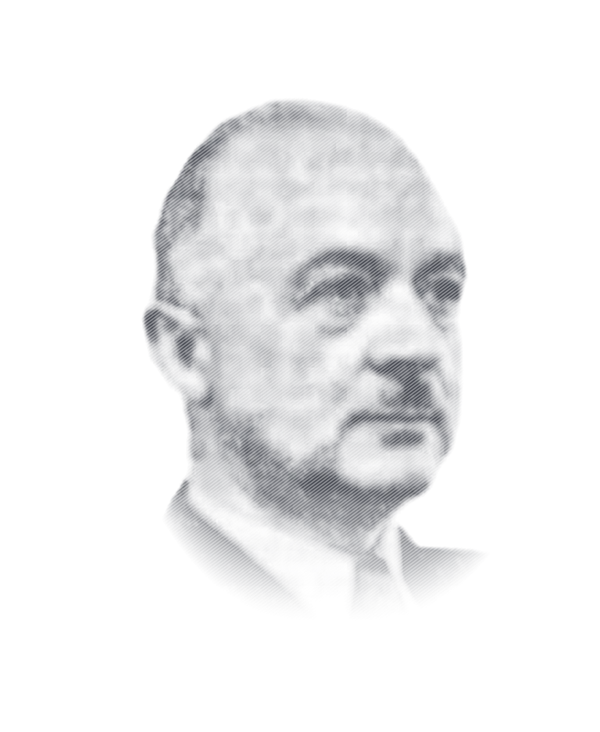
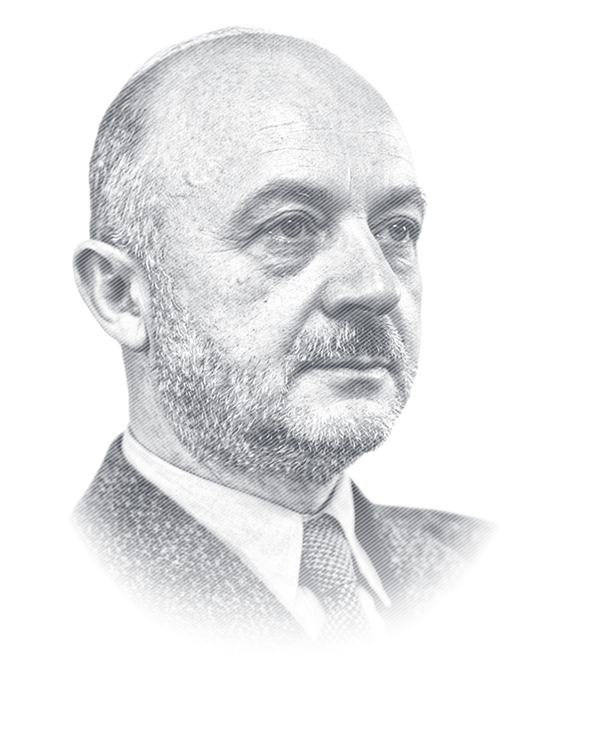
White matter pioneers: Klingler portrait from the high-resolution photograph
Claude-Session: https://claude.ai/code/session_01BxXbRiWMCEb3yynCkD4tVX

Changed region(s): [[0.12, 0.0301, 0.81, 0.8415]]

diff --git a/index.html b/index.html
@@ -58,7 +58,7 @@
           <span class="eyebrow reveal" data-text="home.who.eyebrow">Our mission</span>
           <h2 class="reveal d1" data-text="home.who.title">From history to discoveries</h2>
           <hr class="divider reveal d1">
-          <p class="reveal d2" data-text="home.who.p1">Whenever a new technique is developed, scientist are forced to look back to move forward. Understanding what has been done by our predecessors is pivotal to make true discoveries. For this reason, our research is deeply embedded in the roots of history of neuroscience.</p>
+          <p class="reveal d2" data-text="home.who.p1">Whenever a new technique is developed, scientists are forced to look back to move forward. Understanding what has been done by our predecessors is pivotal to make true discoveries. For this reason, our research is deeply embedded in the roots of history of neuroscience.</p>
           <p class="reveal d2" data-text="home.who.p2" hidden></p>
           <a class="link-arrow reveal d3" href="about.html" data-text="home.who.link">Learn more about the lab</a>
         </div>
